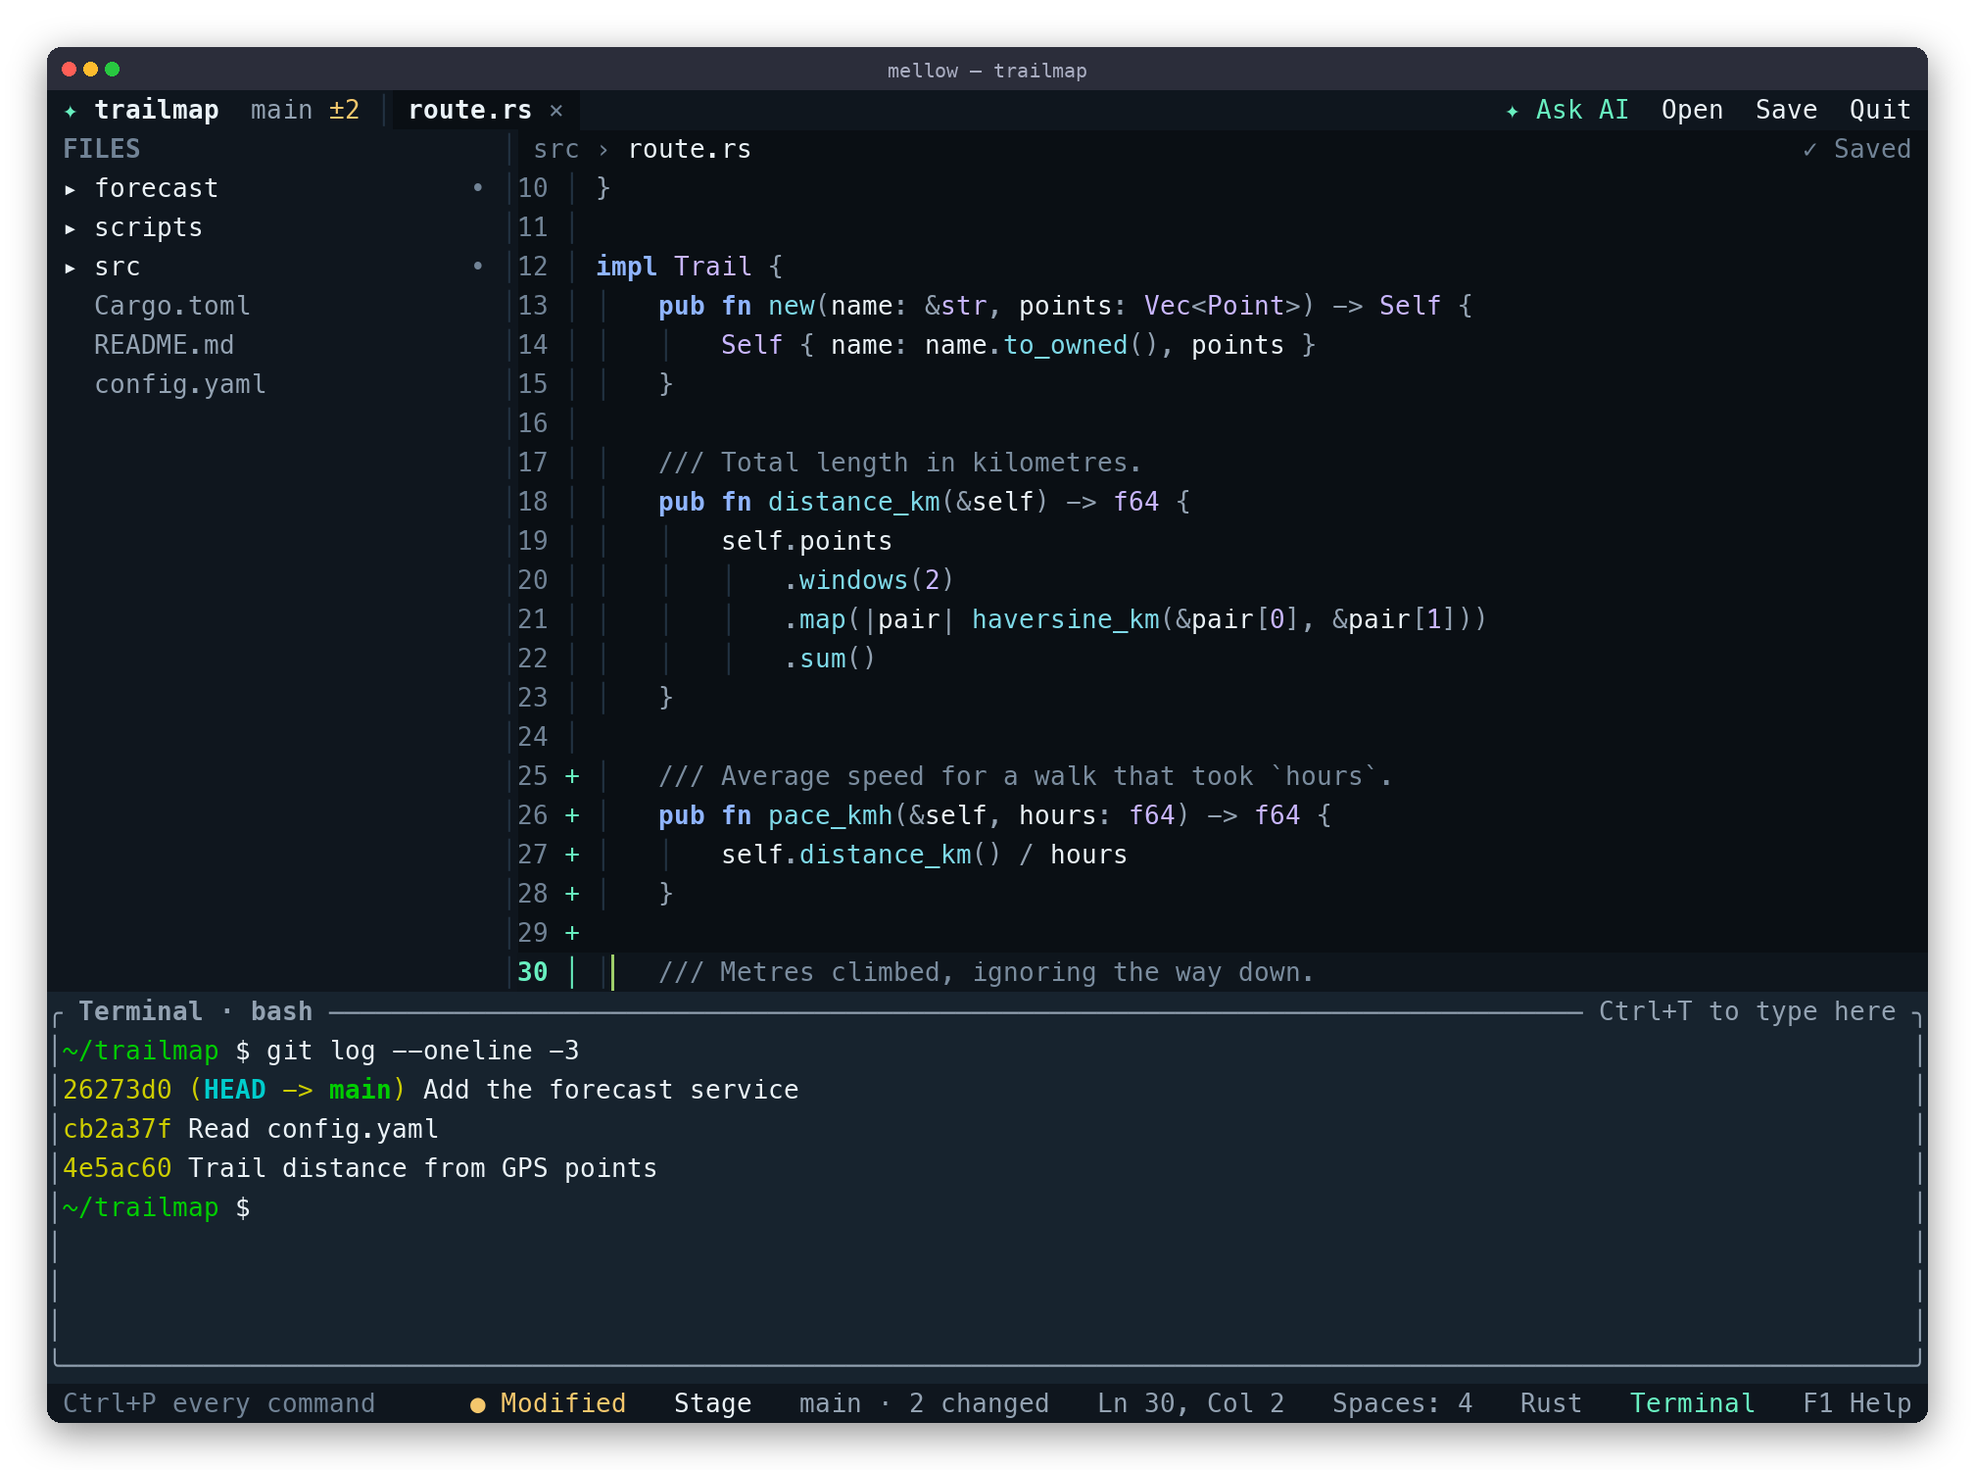
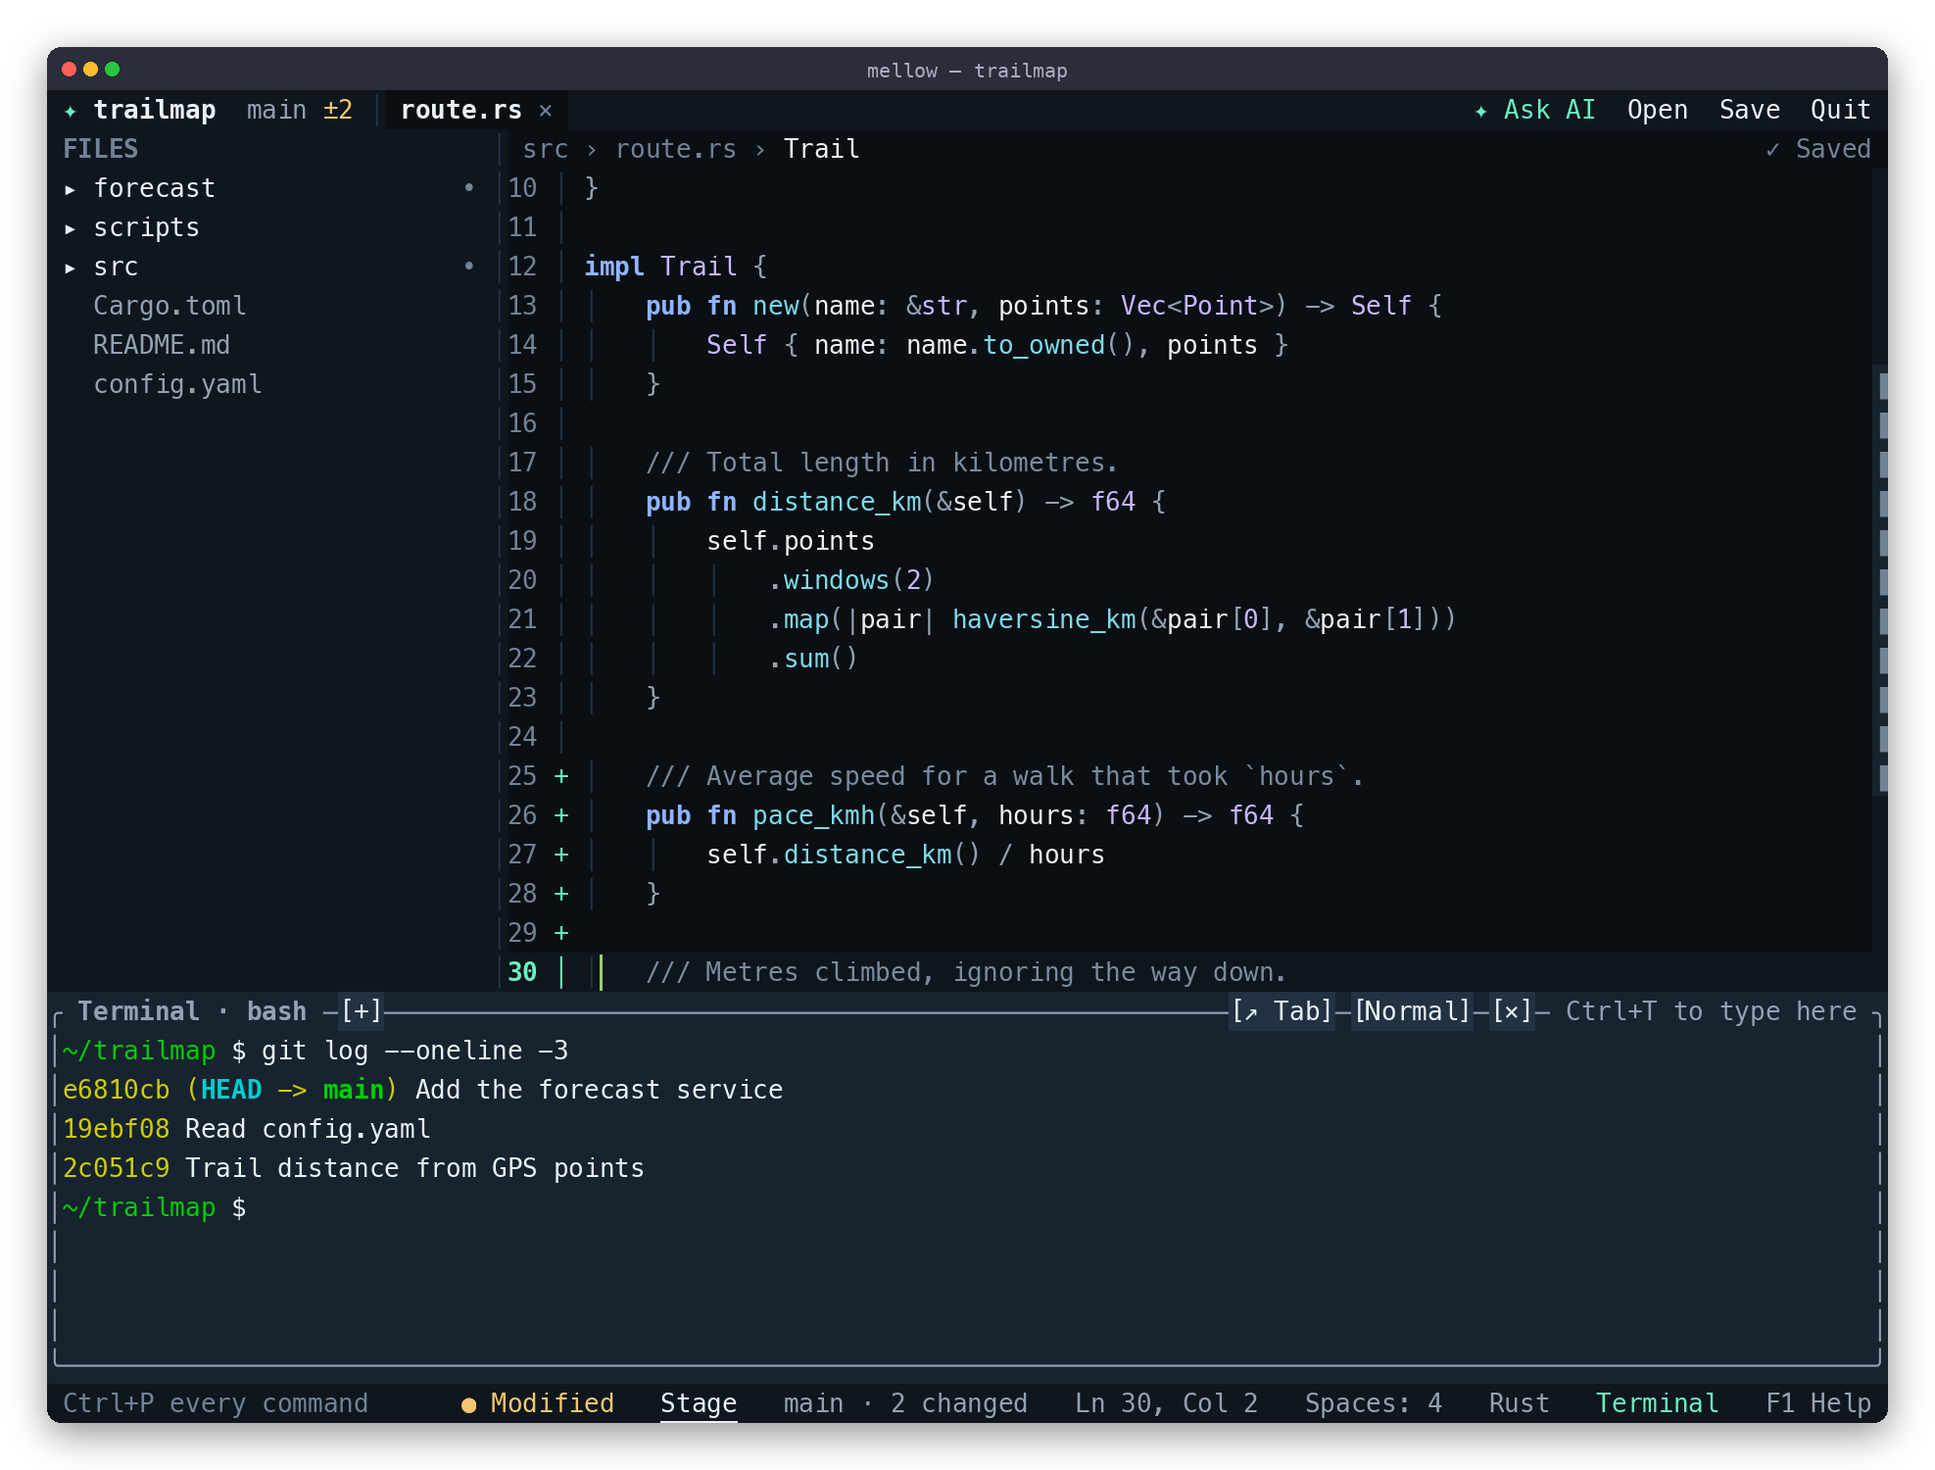
Version 0.3.2

diff --git a/scripts/screenshots.py b/scripts/screenshots.py
@@ -30,7 +30,7 @@ from PIL import Image, ImageDraw, ImageFilter, ImageFont
 
 ROOT = Path(__file__).resolve().parent.parent
 OUT = ROOT / "docs" / "images"
-BIN = sys.argv[1] if len(sys.argv) > 1 else shutil.which("mellow") or str(ROOT / "target/release/mellow")
+BIN = str(Path(sys.argv[1]).resolve()) if len(sys.argv) > 1 else shutil.which("mellow") or str(ROOT / "target/release/mellow")
 
 FONT_CANDIDATES = [
     os.environ.get("MELLOW_SCREENSHOT_FONT", ""),
@@ -163,19 +163,36 @@ def run_scene(project: Path, args, cols, rows, settings, steps):
 
     screen = pyte.Screen(cols, rows)
     stream = pyte.ByteStream(screen)
-    pid, fd = pty.fork()
-    if pid == 0:
-        os.chdir(project)
-        env = {
-            "HOME": str(home), "PATH": os.environ["PATH"], "TERM": "xterm-256color",
-            "COLORTERM": "truecolor", "LANG": "en_US.UTF-8", "SHELL": "/bin/bash",
-            "XDG_CONFIG_HOME": str(home / "config"), "XDG_STATE_HOME": str(home / "state"),
-            "BASH_SILENCE_DEPRECATION_WARNING": "1",
-        }
-        os.execve(BIN, [BIN, *args], env)
-    fcntl.ioctl(fd, termios.TIOCSWINSZ, struct.pack("HHHH", rows, cols, 0, 0))
+    master_fd, slave_fd = pty.openpty()
+    fcntl.ioctl(slave_fd, termios.TIOCSWINSZ, struct.pack("HHHH", rows, cols, 0, 0))
+    env = {
+        "HOME": str(home), "PATH": os.environ["PATH"], "TERM": "xterm-256color",
+        "COLORTERM": "truecolor", "LANG": "en_US.UTF-8", "SHELL": "/bin/bash",
+        "XDG_CONFIG_HOME": str(home / "config"), "XDG_STATE_HOME": str(home / "state"),
+        "BASH_SILENCE_DEPRECATION_WARNING": "1",
+    }
+    def child_setup():
+        os.setsid()
+        fcntl.ioctl(0, termios.TIOCSCTTY, 0)
+
+    proc = subprocess.Popen(
+        [BIN, *args],
+        stdin=slave_fd,
+        stdout=slave_fd,
+        stderr=slave_fd,
+        cwd=str(project),
+        env=env,
+        preexec_fn=child_setup,
+        close_fds=True,
+    )
+    os.close(slave_fd)
+    fd = master_fd
+    captured = bytearray()
+    answered_6n = 0
+    answered_da = 0
 
     def pump(seconds):
+        nonlocal answered_6n, answered_da
         end = time.time() + seconds
         while time.time() < end:
             ready, _, _ = select.select([fd], [], [], 0.03)
@@ -185,27 +202,38 @@ def run_scene(project: Path, args, cols, rows, settings, steps):
                 chunk = os.read(fd, 65536)
             except OSError:
                 return
+            if not chunk:
+                return
+            captured.extend(chunk)
             stream.feed(chunk)
-            if b"\x1b[6n" in chunk:
+            total_6n = captured.count(b"\x1b[6n")
+            while answered_6n < total_6n:
                 os.write(fd, f"\x1b[{screen.cursor.y + 1};{screen.cursor.x + 1}R".encode())
-            if b"\x1b[c" in chunk:
-                os.write(fd, b"\x1b[?1;2c")
+                answered_6n += 1
+            total_da = captured.count(b"\x1b[c")
+            while answered_da < total_da:
+                os.write(fd, b"\x1b[?62c")
+                answered_da += 1
 
-    pump(2.5)
+    pump(2.0)
     for step in steps:
         if isinstance(step, (int, float)):
             pump(step)
         else:
             os.write(fd, step if isinstance(step, bytes) else step.encode())
             pump(0.35)
-    pump(1.5)
-    os.write(fd, b"\x11")  # Ctrl+Q
-    pump(0.5)
+    pump(1.0)
     try:
-        os.kill(pid, 9)
-        os.waitpid(pid, 0)
+        os.write(fd, b"\x11")  # Ctrl+Q
+        pump(0.3)
     except OSError:
         pass
+    try:
+        proc.kill()
+        proc.wait(timeout=2)
+    except Exception:
+        pass
+    os.close(fd)
     return screen
 
 
@@ -256,6 +284,9 @@ def render(screen, title, scale=1.0):
             if ch.data.strip():
                 font = bold if ch.bold else regular
                 draw.text((left, y * cell_h + round(2 * scale)), ch.data, font=font, fill=fg)
+            if getattr(ch, "underscore", False):
+                uy = (y + 1) * cell_h - max(2, round(2 * scale))
+                draw.rectangle([left, uy, right, uy + max(2, round(2 * scale))], fill=fg)
     if not screen.cursor.hidden:
         cx = round(screen.cursor.x * cell_w)
         draw.rectangle([cx, screen.cursor.y * cell_h + 2, cx + max(2, round(2 * scale)), (screen.cursor.y + 1) * cell_h - 2], fill="#9ece6a")
@@ -350,7 +381,62 @@ def main():
         shots.append(render(screen, f"theme = {config}", scale=0.8))
     label_grid(shots, [name for _, name in themes], scale=0.8).save(OUT / "themes.png")
 
-    for name in ("hero.png", "palette.png", "settings.png", "themes.png"):
+    # 5. Developer UI workflows in 0.3.2: inline conflict pills + diagnostic lens,
+    #    interactive terminal controls + clickable file:line links, shell filter
+    #    prompt, and Git history commit diff preview.
+    conflict_file = project / "src/conflict_demo.rs"
+    conflict_file.write_text(
+        "<<<<<<< HEAD\n"
+        "pub fn max_climb_m() -> f64 { 1200.0 }\n"
+        "=======\n"
+        "pub fn max_climb_m() -> f64 { 1500.0 }\n"
+        ">>>>>>> feature/ridge\n"
+        "fn broken_syntax( {\n"
+    )
+    s_conflict = run_scene(
+        project, ["src/conflict_demo.rs"], 104, 26,
+        "theme = tokyo-night\n",
+        [b"\x1b[B"],
+    )
+    conflict_file.unlink()
+
+    s_term = run_scene(
+        project, ["src/route.rs"], 104, 26,
+        "theme = dark\n",
+        [b"\x14", 0.6, b"\x14", 0.3, b"\x10", 0.4, "New terminal session\r", 0.8,
+         "echo 'error --> src/route.rs:18:5: check pace_kmh'\r", 0.6],
+    )
+
+    s_filter = run_scene(
+        project, ["--trust", "forecast/forecast.py"], 104, 26,
+        "theme = catppuccin-mocha\n",
+        [b"\x01", 0.3, b"\x10", 0.4, "Filter selection through shell\r", 0.4, b"\t\t", 0.4],
+    )
+
+    s_history = run_scene(
+        project, ["src/route.rs"], 104, 26,
+        "theme = gruvbox-dark\n",
+        [b"\x10", 0.4, "Show Git history\r", 0.6, b"\x1b[B\x1b[B", 0.4] + [b"\x1b[1;2B"] * 14 + [0.4],
+    )
+
+    workflow_shots = [
+        render(s_conflict, "mellow — inline conflict pills & diagnostic lens", scale=0.8),
+        render(s_term, "mellow — terminal sessions, [↗ Tab] & file:line links", scale=0.8),
+        render(s_filter, "mellow — filter selection through shell", scale=0.8),
+        render(s_history, "mellow — Git history with commit diff preview", scale=0.8),
+    ]
+    label_grid(
+        workflow_shots,
+        [
+            "Inline Conflict Pills & Diagnostic Lens",
+            "Interactive Terminal Controls & Links",
+            "Filter Selection Through Shell",
+            "Git History with Commit Diff Preview",
+        ],
+        scale=0.8,
+    ).save(OUT / "dev-workflows.png")
+
+    for name in ("hero.png", "palette.png", "settings.png", "themes.png", "dev-workflows.png"):
         image = Image.open(OUT / name)
         print(f"wrote docs/images/{name}  {image.width}x{image.height}")
 

diff --git a/CHANGELOG.md b/CHANGELOG.md
@@ -1,5 +1,25 @@
 # Changelog
 
+## 0.3.2 (beta)
+
+Interactive terminal controls, inline canvas actions, and shell filter workflows.
+
+### Added
+
+- **Built-in terminal controls & editor integration:**
+  - Clickable session pills (`[1:zsh]`, `[2:sh]`, `[+]`), a live `● running` indicator when a foreground job owns the PTY, and `[↗ Tab]`, `[Normal]`/`[Tall]`/`[Max]` and `[×]` controls in the terminal top border, plus drag-to-resize on the top border.
+  - Workspace `file:line` and `file:line:col` paths in terminal output are underlined; clicking one opens the file at that line and column in the editor.
+  - **Open terminal output in editor tab** (`terminal.open_in_buffer` / `[↗ Tab]`): opens the active terminal's full scrollback and screen history as a searchable editor tab.
+  - **Send selection or line to terminal** (`terminal.send_selection`): sends the active selection or current line into the running shell.
+- **Filter selection through shell command** (`edit.filter_selection`): pipes the selected text (or current line) through a shell command (`sort`, `sort -u`, `jq .`, `column -t`, `wc -l` presets via `Tab`) and replaces it as a single undoable edit (`Ctrl+Z`).
+- **Inline merge-conflict pills:** `[Keep ours]`, `[Keep theirs]` and `[Keep both]` are drawn directly on `<<<<<<<` conflict header lines in the editor canvas and resolve the conflict block on click.
+- **Inline diagnostic lens & gutter clicks:** the active cursor line shows `● <message>  [Fix with AI]` after the code; clicking a gutter problem dot (`●`) opens Problems at that diagnostic, and clicking a Git gutter marker (`+`, `~`, `-`) opens Changes at that hunk.
+- **1-cell overview scrollbar rail:** shows viewport thumb position (`▐`) plus error, warning and search-match ticks along the right edge of the editor pane; clicking the rail scrolls directly to that region.
+- **Clickable breadcrumb bar:** clicking the trailing symbol opens **Go to symbol**, clicking a folder opens **Open file** scoped to that directory, and clicking the save-state badge saves the file.
+- **Cursor-anchored Hover & Signature card:** language-server hover and signature help render in a floating card next to the cursor (`Esc` or moving the cursor dismisses it).
+- **Commit diff preview in Git history:** selecting a commit in **Show Git history** previews its `git show` stat and patch below the commit list (`Shift+↑/↓` scrolls the diff).
+- **Select next occurrence (`Ctrl+D`):** bound `Ctrl+D` to select the word at the cursor and add multi-cursors to subsequent matches.
+
 ## 0.3.1 (beta)
 
 The October deep audit, plus fixes found while testing it on Ubuntu and CentOS.

diff --git a/docs/install.md b/docs/install.md
@@ -31,7 +31,7 @@ Options, set before `sh`:
 
 | Variable | Effect |
 | --- | --- |
-| `MELLOW_VERSION=0.3.1` | Install that version instead of the latest |
+| `MELLOW_VERSION=0.3.2` | Install that version instead of the latest |
 | `MELLOW_INSTALL_DIR=/some/dir` | Install somewhere other than `~/.local/bin` |
 
 For example, choose a different install directory:
@@ -53,23 +53,23 @@ browser-downloaded copies.
 ## Debian and Ubuntu
 
 ```bash
-curl -fsSLO https://github.com/ritru-labs/mellow/releases/download/v0.3.1/mellow_0.3.1_amd64.deb
-sudo apt install ./mellow_0.3.1_amd64.deb
+curl -fsSLO https://github.com/ritru-labs/mellow/releases/download/v0.3.2/mellow_0.3.2_amd64.deb
+sudo apt install ./mellow_0.3.2_amd64.deb
 ```
 
-On ARM64, use `mellow_0.3.1_arm64.deb`.
+On ARM64, use `mellow_0.3.2_arm64.deb`.
 
 ## Fedora, RHEL, Rocky, Alma
 
 ```bash
-sudo dnf install https://github.com/ritru-labs/mellow/releases/download/v0.3.1/mellow-0.3.1-1.x86_64.rpm
+sudo dnf install https://github.com/ritru-labs/mellow/releases/download/v0.3.2/mellow-0.3.2-1.x86_64.rpm
 ```
 
-On ARM64, use `mellow-0.3.1-1.aarch64.rpm`. On Amazon Linux 2, use `yum`
+On ARM64, use `mellow-0.3.2-1.aarch64.rpm`. On Amazon Linux 2, use `yum`
 instead of `dnf`. On openSUSE:
 
 ```bash
-sudo rpm -i https://github.com/ritru-labs/mellow/releases/download/v0.3.1/mellow-0.3.1-1.x86_64.rpm
+sudo rpm -i https://github.com/ritru-labs/mellow/releases/download/v0.3.2/mellow-0.3.2-1.x86_64.rpm
 ```
 
 The release workflow targets static musl Linux binaries to reduce dependencies
@@ -117,7 +117,7 @@ cargo install --locked --path .
 mellow --version
 ```
 
-The version should print as `mellow 0.3.1` for the documented release (a newer
+The version should print as `mellow 0.3.2` for the documented release (a newer
 installed release will print its own version). Run `mellow --help` for CLI usage,
 then follow [Make your first edit](getting-started.md). If the shell cannot find
 it, see [PATH troubleshooting](faq.md#mellow-command-not-found).

diff --git a/docs/usage.md b/docs/usage.md
@@ -65,8 +65,15 @@ command. `Ctrl+T` returns focus to editing.
 
 Save first: an external command reads files on disk, not unsaved buffer text.
 Inside the terminal, keys go to the shell; `Ctrl+C` interrupts a process.
-The palette also offers **New terminal session**, **Next terminal session**,
-**Resize terminal panel** and **Close active terminal session**.
+The terminal's top border shows clickable session pills (`[1:zsh]`, `[+]`), a
+`● running` indicator while a foreground job is active, and `[↗ Tab]`,
+`[Normal]`/`[Tall]`/`[Max]` and `[×]` controls; you can also drag the top border
+to resize the panel. Compiler and test paths (`file:line` or `file:line:col`) in
+terminal output are underlined—click one to jump straight to that line in the
+editor. The palette also offers **New terminal session**, **Next terminal session**,
+**Resize terminal panel**, **Open terminal output in editor tab**, **Send
+selection or line to terminal**, **Filter selection through shell command** and
+**Close active terminal session**.
 
 ## Review and commit a Git change
 
@@ -109,9 +116,13 @@ cursor inside the block. The status line says so and names the three commands:
 - **Keep theirs in conflict:** keeps the incoming side.
 - **Keep both sides of conflict:** keeps both, yours first.
 
-Each choice is one edit, so `Ctrl+Z` undoes it. A side with nothing in it removes
+Each choice is one edit, so `Ctrl+Z` undoes it. You can also click `[Keep ours]`,
+`[Keep theirs]` or `[Keep both]` directly on the `<<<<<<<` line in the editor
+canvas. A side with nothing in it removes
 the marker lines. Mark the file resolved from **Git conflicts** once no markers
 remain.
+
+![Inline conflict pills, interactive terminal controls, shell filter prompt and Git history diff preview](images/dev-workflows.png){ .mellow-shot }
 
 ## Use the mouse
 

diff --git a/README.md b/README.md
@@ -9,7 +9,7 @@ away.
 
 ![Mellow editing a Rust project: file tree, Git changes in the gutter and the built-in terminal](docs/images/hero.png)
 
-**Version 0.3.1, beta.** Runs on macOS and Linux. Documentation:
+**Version 0.3.2, beta.** Runs on macOS and Linux. Documentation:
 **[ritru-labs.github.io/mellow](https://ritru-labs.github.io/mellow/)**
 
 ## Understand the project
@@ -82,13 +82,13 @@ ones yours can send. All keys: [Keys](https://ritru-labs.github.io/mellow/keys/)
 - No modes: typing types, and the keys you already know work.
 - Mouse support: click, drag, double-click, scroll.
 - Six themes, a project file tree, tabs and split panes.
-- Find and replace in a file or across the project.
+- Find and replace in a file or across the project, plus `Ctrl+D` multi-cursor selection and **Filter selection through shell command**.
 - Smart indentation as you type, and optional format on save with your
   language's formatter (rustfmt, ruff, shfmt, prettier...).
-- A Git panel: changes, staging, commit, branches, pull and push, all running in
+- A Git panel: changes, staging, commit, branches, history with commit diffs, inline conflict pills (`[Keep ours]` / `[Keep theirs]` / `[Keep both]`), pull and push, all running in
   the background.
-- A built-in terminal.
-- Language servers for completion, problems and go to definition.
+- A built-in terminal with clickable session tabs, `[↗ Tab]` scrollback export to an editor tab, drag-to-resize, and clickable `file:line:col` compiler links.
+- Language servers for completion, cursor-anchored hover & signature cards, inline diagnostic lenses, problems and go to definition.
 - Optional AI that shows every change for review before applying it.
 - Crash recovery: unsaved work comes back after a crash.
 

diff --git a/docs/index.md b/docs/index.md
@@ -4,7 +4,7 @@ title: Mellow terminal editor
 
 <div class="mellow-intro" markdown>
 
-<p class="mellow-eyebrow">MELLOW · DOCUMENTATION · 0.3.1 BETA</p>
+<p class="mellow-eyebrow">MELLOW · DOCUMENTATION · 0.3.2 BETA</p>
 
 # Edit files in your terminal. Start with the keys you know.
 
@@ -64,7 +64,7 @@ language server. It is an Apache-2.0 open-source project, currently in beta.
 
 ## What works today?
 
-| Capability in 0.3.1 | What you need |
+| Capability in 0.3.2 | What you need |
 | --- | --- |
 | Editing, undo/redo, mouse selection, tabs, split panes, file search and replace | The Mellow binary and an interactive terminal |
 | Project file picker, file tree, project search, session restore and crash journals | A local project folder; UTF-8 text files |

diff --git a/docs/getting-started.md b/docs/getting-started.md
@@ -16,7 +16,7 @@ mellow notes.txt
 ```
 
 The version command should print `mellow` followed by the installed version.
-The commands on this site describe **0.3.1 beta**. If `mellow` is not found,
+The commands on this site describe **0.3.2 beta**. If `mellow` is not found,
 follow the [PATH troubleshooting steps](faq.md#mellow-command-not-found).
 If the practice folder already exists, choose another name.
 

diff --git a/docs/keys.md b/docs/keys.md
@@ -27,6 +27,7 @@ shortcuts before Mellow receives them.
 | --- | --- |
 | `Ctrl+Y` | Redo (also `Ctrl+Shift+Z`) |
 | `Ctrl+H` | Replace, with a preview |
+| `Ctrl+D` | Select next occurrence (multi-cursor) |
 | `Ctrl+G` | Go to line (and column) |
 | `Ctrl+PgDn` / `Ctrl+PgUp` | Next / previous file |
 | `Ctrl+/` | Comment line |
